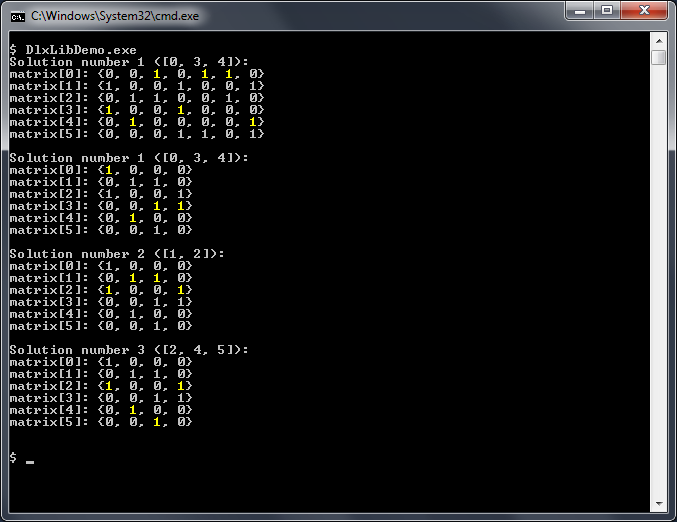
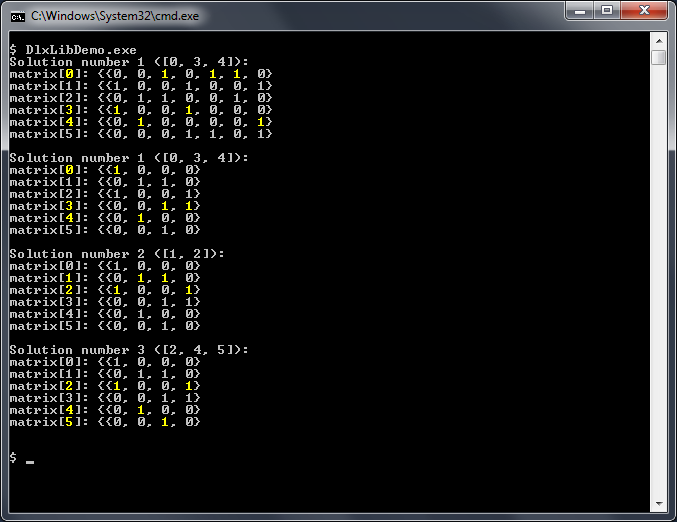
We now highlight the row indexes too. Also, updated the screenshot.

diff --git a/DlxLibDemo/Program.cs b/DlxLibDemo/Program.cs
@@ -68,7 +68,14 @@ namespace DlxLibDemo
 
             for (var rowIndex = 0; rowIndex < numRows; rowIndex++)
             {
-                Console.Write("matrix[{0}]: {{", rowIndex);
+                Console.Write("matrix[");
+                var localRowIndexForCapture = rowIndex;
+                ChangeConsoleForegroundColorIf(
+                    solution.RowIndexes.Contains(rowIndex),
+                    ConsoleColor.Yellow,
+                    () => Console.Write("{0}", localRowIndexForCapture));
+                Console.Write("]: {{");
+
                 for (var colIndex = 0; colIndex < numCols; colIndex++)
                 {
                     var value = matrix[rowIndex, colIndex];
